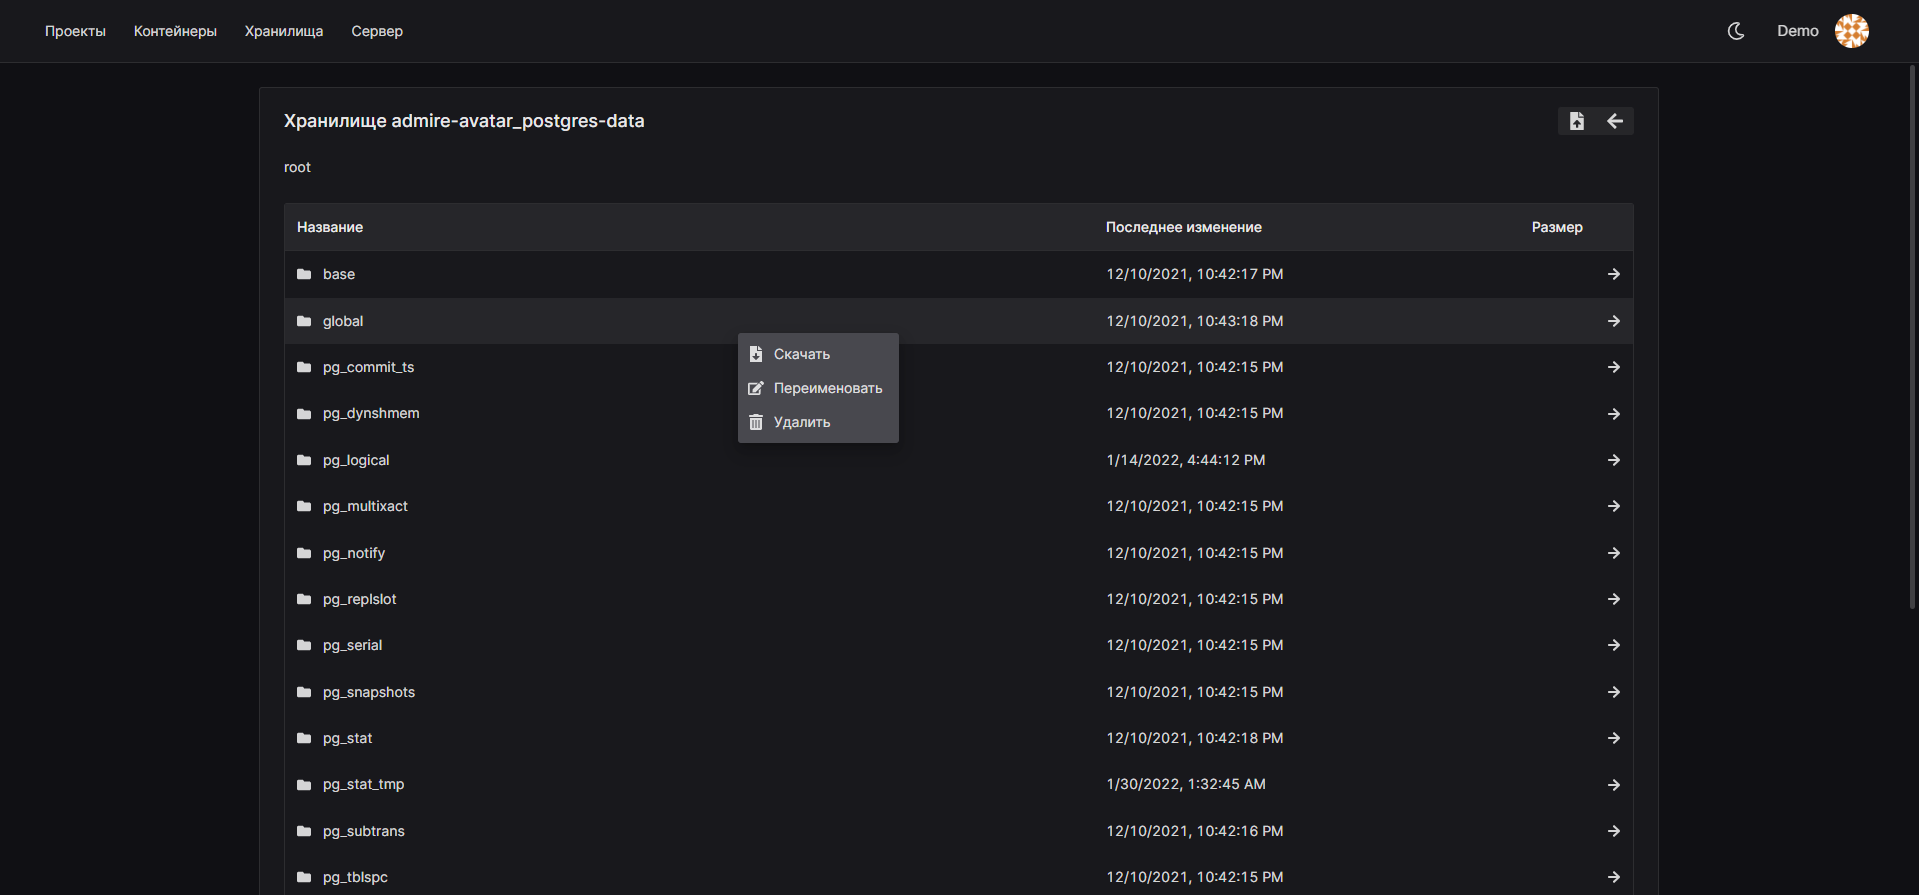
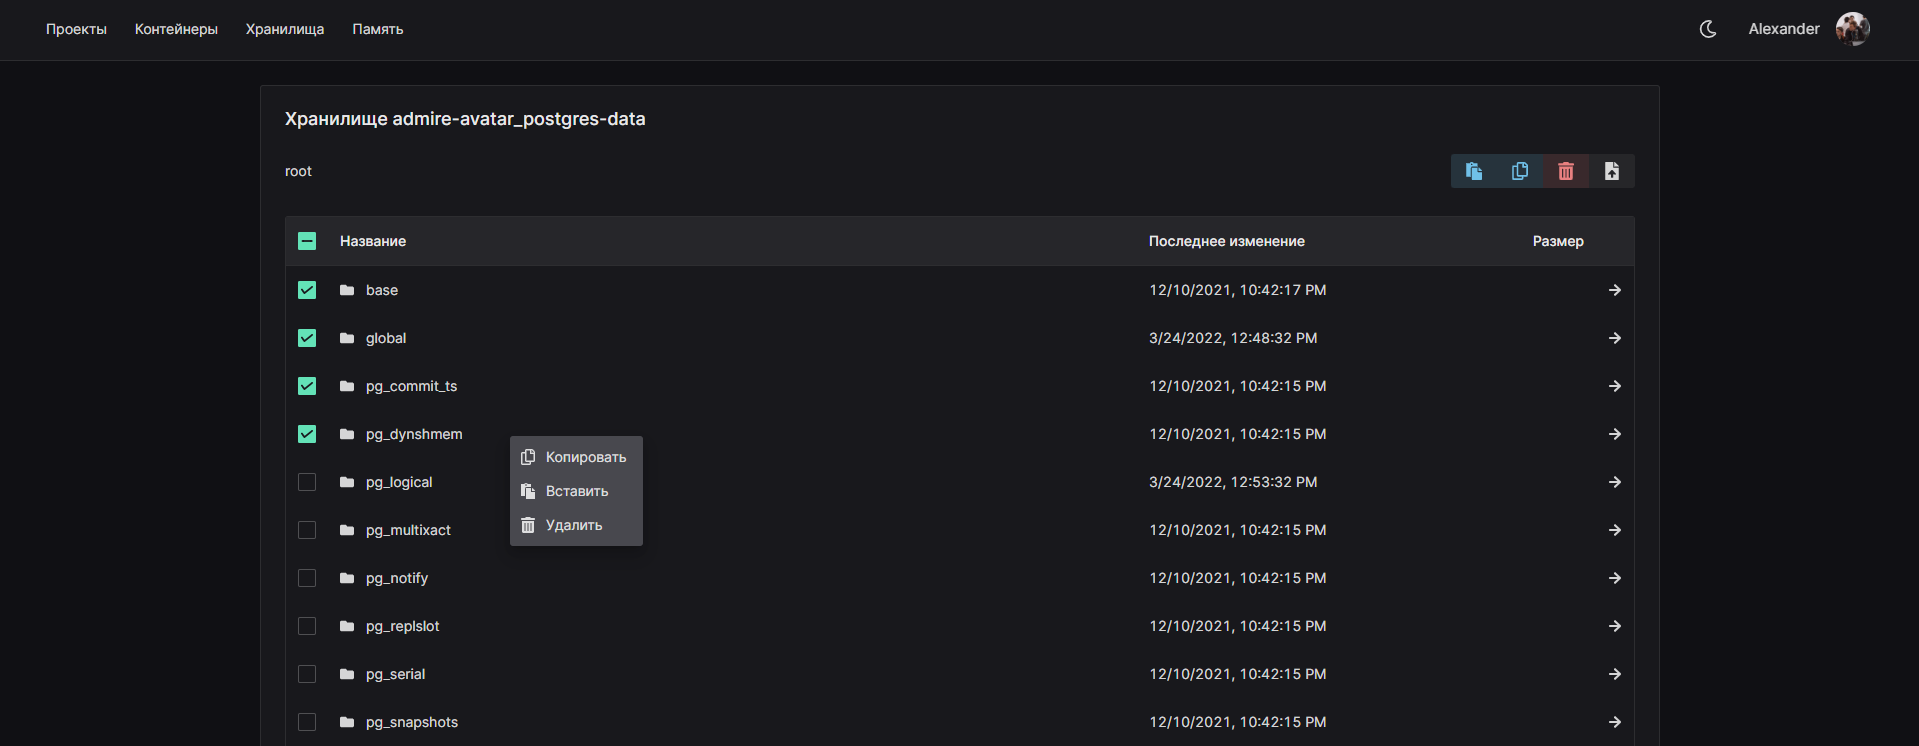
Update

diff --git a/content/ru/constructor.md b/content/ru/constructor.md
@@ -1,0 +1,64 @@
+---
+title: Доменные имена
+description: ''
+position: 4
+category: Управление
+---
+
+На странице детализации проекта можно создать новое доменное имя и выполнить его настройку.
+
+![Создание доменного имени](/images/create_domain.png)
+
+Страница создания доменного имени содержит следующие настройки:
+
+- Включить / выключить генерацию TLS сертификата и устанавливать ли автоматически защищенное `https` соединение;
+- Название доменного имени без `/` и протокола соединения (например, `example.com`);
+- Установить редирект с `www` версии доменного имени на основной домен;
+- Отвечать `204` кодом на все предполетные (`OPTIONS`) запросы (необходимо для решения _CORS_ блокировки);
+- Добавить базовую web авторизацию при посещении сайта (активирует следующие дополнительные настройки):
+  - Имя пользователя для базовой web авторизации;
+  - Пароль для базовой web авторизации;
+- Режим работы доменного имени (обратный прокси, редирект или прямое проксирование).
+
+## Режим работы доменного имени: обратный прокси
+
+Позволяет дать доступ к работающему внутри сервера сервису, такому как работающему Docker контейнеру.
+Для этого контейнер должен быть подключен к Docker сети `server`.
+
+Пример настройки `docker-compose.yml` файла, для запуска _nginx_ сервиса, и настройка доменного имени Asmy обеспечивающая доступ к сервису по доменному имени:
+
+```yaml
+version: '3.8'
+
+services:
+  nginx:
+    restart: unless-stopped
+    image: nginx:stable
+    container_name: nginx-container
+    expose:
+      - 80
+    networks:
+      - server
+
+networks:
+  server:
+    external: true
+```
+
+![Пример настройки доменного имени](/images/nginx_settings.png)
+
+При выборе режима обратного проксирования появляются следующие дополнительные настройки:
+
+- Имя контейнера на который будут перенаправляться запросы;
+- Порт запущенного внутри контейнера сервиса, на который будут перенаправляться запросы (по умолчанию порт `80`);
+- Разрешить ли смену протокола общения с сервером на web socket соединение;
+- Включить ли функцию тестовых поддоменов (**экспериментальная функция**) (при включении требуется дополнительная информация):
+  - Ссылка на git репозиторий тестируемого приложения (работает только для _gitlab_).
+
+## Режим работы доменного имени: редирект
+
+Включает перенаправление доменного имени на адрес другого сайта.
+
+## Режим работы доменного имени: прямое проксирование
+
+Предоставляет доступ к другому адресу сайта по указанному в настройках доменному имени.

diff --git a/content/ru/installing.md b/content/ru/installing.md
@@ -2,7 +2,7 @@
 title: Установка и запуск
 description: ''
 position: 3
-category: Guide
+category: Начало
 ---
 
 Для установки приложения необходимо выполнить следующие шаги:
@@ -12,14 +12,14 @@ category: Guide
 
 - Создать файл `.env` с переменными запуска приложения и указать следующие переменные:
 
-    - `EMAIL` - адрес электронной почты для которой будет генерироваться _TLS_ сертификаты;
-    - `ADMIN_HOSTNAME` - доменное имя по которому будет доступна панель администратора приложения (без протокола соединения);
-    - `ADMIN_HTTPS` (опционально, по умолчанию _true_) - принимает значение _true_ или _false_, указывает,
-      создавать ли _TLS_ сертификат для доменного имени панели администратора и включать ли принудительное защищенное соединение.
-    - `SWARM_MODE` (опционально) - принимает значение _true_ или _false_, при указании _true_ приложение запустится с использованием Docker Swarm,
-      а также сеть сервер будет создана с использованием драйвера _overlay_.
-    - `BASE_URL` (опционально) - строковое значение пути начиная со слеша и без слеша в конце
-      позволяющее приложении запускаться не с корня указанного в настройках доменного имени.
+- `EMAIL` - адрес электронной почты для которой будет генерироваться _TLS_ сертификаты;
+- `ADMIN_HOSTNAME` - доменное имя по которому будет доступна панель администратора приложения (без протокола соединения);
+- `ADMIN_HTTPS` (опционально, по умолчанию _true_) - принимает значение _true_ или _false_, указывает,
+  создавать ли _TLS_ сертификат для доменного имени панели администратора и включать ли принудительное защищенное соединение.
+- `SWARM_MODE` (опционально) - принимает значение _true_ или _false_, при указании _true_ приложение запустится с использованием Docker Swarm,
+  а также сеть сервер будет создана с использованием драйвера _overlay_.
+- `BASE_URL` (опционально) - строковое значение пути начиная со слеша и без слеша в конце
+  позволяющее приложении запускаться не с корня указанного в настройках доменного имени.
 
 - Изменить права скрипта запуска разрешив исполнение файла: `chmod -x start.sh`
 

diff --git a/content/ru/roles.md b/content/ru/roles.md
@@ -1,8 +1,8 @@
 ---
 title: Ролевая модель
 description: ''
-position: 4
-category: Guide
+position: 5
+category: Управление
 ---
 
 Приложение имеет следующие особенности ролевой модели, которые необходимо понимать администратору приложения для настройки прав доступа.
@@ -18,9 +18,9 @@ category: Guide
 
 ## Роль в проекте
 
-В рамках проекта у пользователя может быть одна из двух ролей: developer и maintainer.
+В рамках проекта у пользователя может быть одна из двух ролей: _developer_ и _maintainer_.
 
 Вторая роль отличается от первой дополнительными возможностями, которые требуют от разработчика большего опыта и могут навредить работе приложения,
 такие как остановка и удаления контейнера или хранилища. А также только maintainer обладает правом добавление участника к проекту или смена прав имеющихся пользователей.
 
-Пользователь создавший проект автоматически становится его участником с правом maintainer.
+Пользователь создавший проект автоматически становится его участником с правом _maintainer_.

diff --git a/content/ru/index.md b/content/ru/index.md
@@ -2,11 +2,7 @@
 title: Введение
 description: ''
 position: 1
-category: ''
-features:
-  - Feature 1
-  - Feature 2
-  - Feature 3
+category: Начало
 ---
 
 Admire Server Manager - программа, которая упростит вашу работу с сервером.
@@ -23,11 +19,8 @@ Asmy поможет настроить web-сервер, настроить об
 * Настройка Web-сервера (обратное проксирование, редиректы, прямое проксирование)
 * Управление Docker контейнерами
 * Управление Docker хранилищами
+* Терминал управления контейнерами
+* Файловый менеджер хранилищ
+* Текстовый редактор для файлов
 * Управление пользователем и организация прав доступа
 * Создание тестовое среды разработки Web-приложений
-
-## Документация
-
-* Основные возможности - [перейти](/opportunities)
-* Установка и запуск - [перейти](/installing)
-* Ролевая модель - [перейти](/roles)

diff --git a/content/ru/updating.md b/content/ru/updating.md
@@ -1,9 +1,9 @@
 ---
 title: Обновление
 description: ''
-position: 5
-category: Guide
+position: 6
+category: Управление
 ---
 
-Приложение будет обновляться автоматически до последней стабильной версии каждую ночь в 3:00 в фоновом режиме.
-На время обновления работа web-сервера не прекращается и при работающие приложения остаются в рабочем состоянии.
+Приложение будет обновляться автоматически до последней стабильной версии каждую ночь в 3:00 по времени сервера в фоновом режиме.
+На время обновления работа web-сервера не прекращается и все работающие приложения остаются в рабочем состоянии.
